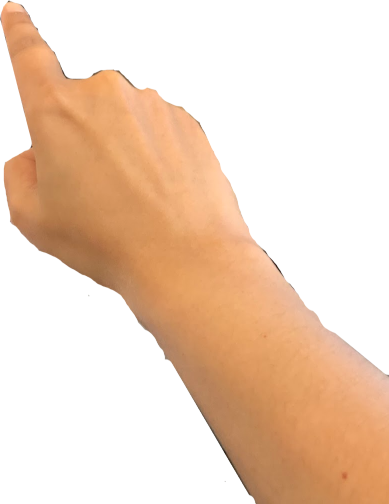
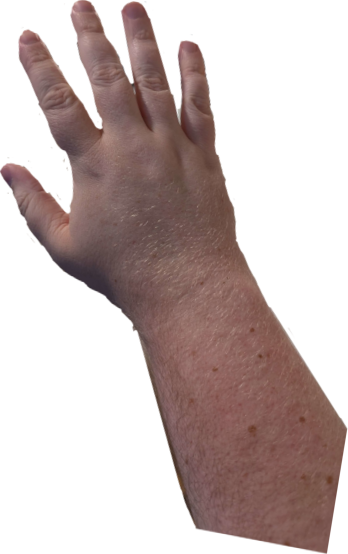
experiment with an idle hand cursor

diff --git a/src/game.tsx b/src/game.tsx
@@ -3,6 +3,7 @@ import bgImgUrlLeft from "./assets/left_window_furniture.png";
 import bgImgUrl from "./assets/Placeholder BG Asset - Sketch 1.png";
 import grabClosedHandImgUrl from "./assets/placeholder_hand_grabbing_closed.png";
 import grabOpenHandImgUrl from "./assets/placeholder_hand_grabbing_open.png";
+import idleHandImgUrl from "./assets/placeholder_hand_idle.png";
 import pointHandImgUrl from "./assets/placeholder_hand_pointing.png";
 import bgImgUrlTable from "./assets/table_layer.png";
 import styles from "./game.module.css";
@@ -103,7 +104,7 @@ function getCursorImageForType(cursorType: string | undefined) {
         return grabClosedHandImgUrl;
     }
 
-    return "";
+    return idleHandImgUrl;
 }
 
 function useCustomCursor(pointerImgRef: RefObject<HTMLImageElement | null>, scale: number) {
@@ -130,7 +131,12 @@ function useCustomCursor(pointerImgRef: RefObject<HTMLImageElement | null>, scal
 
                 const newImg = getCursorImageForType(cursorType);
                 pointerImgRef.current.src = newImg;
-                pointerImgRef.current.style.transform = `translate3d(calc(${x}px), ${y}px, 0) scale(${scale})`;
+                const offset = { x: 0, y: 0 };
+                if (newImg === idleHandImgUrl) {
+                    offset.x = -20;
+                    offset.y = -25;
+                }
+                pointerImgRef.current.style.transform = `translate3d(calc(${x + offset.x}px), ${y + offset.y}px, 0) scale(${scale})`;
             }
         };
         window.addEventListener("mousemove", mouseMove);

diff --git a/src/index.css b/src/index.css
@@ -12,6 +12,21 @@ body {
     overflow: hidden;
 }
 
-[data-cursor] {
+* {
     cursor: none;
+}
+
+[data-cursor="point"] {
+    --hover-outline-color: white;
+    --hover-outline-offset: 3px;
+}
+[data-cursor="point"]:hover {
+    filter: drop-shadow(var(--hover-outline-offset) var(--hover-outline-offset) 0px var(--hover-outline-color))
+        drop-shadow(calc(-1 * var(--hover-outline-offset)) var(--hover-outline-offset) 0px var(--hover-outline-color))
+        drop-shadow(
+            calc(-1 * var(--hover-outline-offset)) calc(-1 * var(--hover-outline-offset)) 0px var(--hover-outline-color)
+        )
+        drop-shadow(
+            calc(var(--hover-outline-offset)) calc(-1 * var(--hover-outline-offset)) 0px var(--hover-outline-color)
+        );
 }
